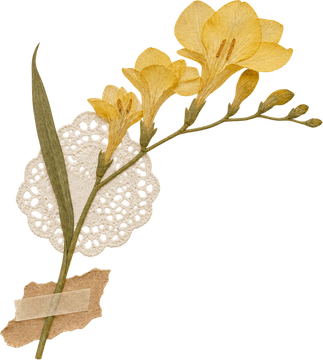
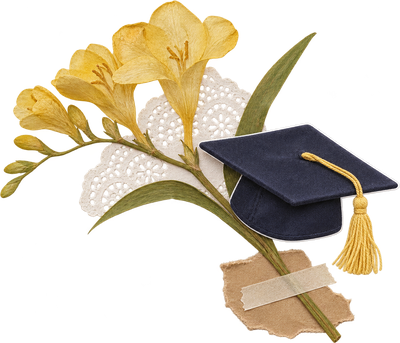
미리보기 제목 옆을 학사모+프리지아로, 공유 미리보기 이미지(og-image.jpg)·파비콘을 본판에도 적용
Claude-Session: https://claude.ai/code/session_01RUfDngG5q3TgRBj39mNToG

diff --git a/preview.html b/preview.html
@@ -12,14 +12,25 @@
 <meta property="og:url" content="https://best15993232-sudo.github.io/flower-planner/">
 <meta property="og:title" content="언제 졸업해? · 꽃 판매 플래너">
 <meta property="og:description" content="우리 가게 주변 졸업식 날짜를 한눈에. 전국 초·중·고·대학.">
-<meta property="og:image" content="https://best15993232-sudo.github.io/flower-planner/og-image.png">
+<meta property="og:image" content="https://best15993232-sudo.github.io/flower-planner/og-image.jpg">
 <meta property="og:image:width" content="1200"><meta property="og:image:height" content="630">
 <meta name="twitter:card" content="summary_large_image">
 <meta name="twitter:title" content="언제 졸업해? · 꽃 판매 플래너">
 <meta name="twitter:description" content="우리 가게 주변 졸업식 날짜를 한눈에. 전국 초·중·고·대학.">
-<meta name="twitter:image" content="https://best15993232-sudo.github.io/flower-planner/og-image.png">
+<meta name="twitter:image" content="https://best15993232-sudo.github.io/flower-planner/og-image.jpg">
 <link rel="preconnect" href="https://fonts.googleapis.com"><link rel="preconnect" href="https://fonts.gstatic.com" crossorigin>
 <link rel="stylesheet" href="https://fonts.googleapis.com/css2?family=Gaegu:wght@700&display=swap">
+<meta name="description" content="꽃집 사장님을 위한 졸업식 꽃 판매 플래너. 우리 가게 주변 초·중·고·대학 졸업식 날짜를 한눈에 보고 준비 수량까지 적어두세요.">
+<link rel="icon" type="image/png" sizes="32x32" href="favicon.png">
+<link rel="apple-touch-icon" sizes="180x180" href="apple-touch-icon.png">
+<meta property="og:type" content="website">
+<meta property="og:url" content="https://best15993232-sudo.github.io/flower-planner/">
+<meta property="og:title" content="언제 졸업해? · 꽃 판매 플래너">
+<meta property="og:description" content="우리 가게 주변 졸업식 날짜를 한눈에. 전국 초·중·고·대학.">
+<meta property="og:image" content="https://best15993232-sudo.github.io/flower-planner/og-image.jpg">
+<meta property="og:image:width" content="1200"><meta property="og:image:height" content="630">
+<meta name="twitter:card" content="summary_large_image">
+<meta name="twitter:image" content="https://best15993232-sudo.github.io/flower-planner/og-image.jpg">
 <title>[미리보기] 언제 졸업해? · 꽃 판매 플래너</title>
 <link rel="stylesheet" href="libs/leaflet/leaflet.css">
 <link rel="stylesheet" href="https://cdn.jsdelivr.net/gh/orioncactus/pretendard@v1.3.9/dist/web/static/pretendard.min.css">
@@ -468,7 +479,7 @@ body{background:var(--bg);color:var(--ink)}
 .hero-l{padding-top:6px}
 .bubble{position:relative;display:inline-block;background:var(--kraft);color:var(--kraft-ink);padding:8px 18px 10px;border-radius:14px 14px 14px 4px;transform:rotate(-2.5deg);box-shadow:0 1px 0 #00000014}
 .bubble::after{content:"";position:absolute;left:14px;bottom:-9px;border:9px solid transparent;border-top-color:var(--kraft);border-bottom:0;border-left:0}
-.bubble h1{margin:0;font-family:Gaegu,cursive;font-weight:700;font-size:30px;line-height:1.15;letter-spacing:0}
+.bubble h1{margin:0;font-family:Gaegu,cursive;font-weight:700;font-size:clamp(24px,7.6vw,30px);line-height:1.15;letter-spacing:0;white-space:nowrap}
 .tape{position:absolute;top:-9px;right:-14px;width:52px;height:18px;background:var(--tape);transform:rotate(18deg);box-shadow:0 1px 1px #0000000d}
 .hero-sub{margin:16px 0 0;font-size:15px;font-weight:700;color:var(--ink)}
 .hero-sub2{margin:2px 0 0;font-size:12.5px;color:var(--ink2)}
@@ -476,7 +487,7 @@ body{background:var(--bg);color:var(--ink)}
 .lace{width:100%;height:100%;border-radius:8px;background:radial-gradient(circle at 8px 8px,#fff 3px,transparent 3.5px) 0 0/16px 16px,var(--paper);border:1px dashed var(--line);display:flex;align-items:center;justify-content:center;overflow:hidden}
 .lace img{width:100%;height:100%;object-fit:contain;filter:drop-shadow(0 2px 3px #3a312822)}
 .lace:has(img){background:none;border:0;overflow:visible}
-.hero-r{width:128px;height:146px;margin-right:-6px}
+.hero-r{width:140px;height:130px;margin-right:-8px}
 /* 위치 줄 */
 .locbar{background:#fff;border:1px solid var(--line);border-radius:10px;min-height:52px;padding:10px 12px}
 .locbar b{font-size:15px}

diff --git a/index.html b/index.html
@@ -4,6 +4,17 @@
 <meta charset="utf-8">
 <meta name="viewport" content="width=device-width, initial-scale=1, viewport-fit=cover">
 <meta name="theme-color" content="#f6f5f0">
+<meta name="description" content="꽃집 사장님을 위한 졸업식 꽃 판매 플래너. 우리 가게 주변 초·중·고·대학 졸업식 날짜를 한눈에 보고 준비 수량까지 적어두세요.">
+<link rel="icon" type="image/png" sizes="32x32" href="favicon.png">
+<link rel="apple-touch-icon" sizes="180x180" href="apple-touch-icon.png">
+<meta property="og:type" content="website">
+<meta property="og:url" content="https://best15993232-sudo.github.io/flower-planner/">
+<meta property="og:title" content="언제 졸업해? · 꽃 판매 플래너">
+<meta property="og:description" content="우리 가게 주변 졸업식 날짜를 한눈에. 전국 초·중·고·대학.">
+<meta property="og:image" content="https://best15993232-sudo.github.io/flower-planner/og-image.jpg">
+<meta property="og:image:width" content="1200"><meta property="og:image:height" content="630">
+<meta name="twitter:card" content="summary_large_image">
+<meta name="twitter:image" content="https://best15993232-sudo.github.io/flower-planner/og-image.jpg">
 <title>언제 졸업해? · 우리 동네 졸업식 날짜</title>
 <link rel="stylesheet" href="libs/leaflet/leaflet.css">
 <link rel="stylesheet" href="https://cdn.jsdelivr.net/gh/orioncactus/pretendard@v1.3.9/dist/web/static/pretendard.min.css">

diff --git a/scripts/make_preview.py b/scripts/make_preview.py
@@ -13,12 +13,12 @@ R('<meta name="theme-color" content="#f6f5f0">','''<meta name="theme-color" cont
 <meta property="og:url" content="https://best15993232-sudo.github.io/flower-planner/">
 <meta property="og:title" content="언제 졸업해? · 꽃 판매 플래너">
 <meta property="og:description" content="우리 가게 주변 졸업식 날짜를 한눈에. 전국 초·중·고·대학.">
-<meta property="og:image" content="https://best15993232-sudo.github.io/flower-planner/og-image.png">
+<meta property="og:image" content="https://best15993232-sudo.github.io/flower-planner/og-image.jpg">
 <meta property="og:image:width" content="1200"><meta property="og:image:height" content="630">
 <meta name="twitter:card" content="summary_large_image">
 <meta name="twitter:title" content="언제 졸업해? · 꽃 판매 플래너">
 <meta name="twitter:description" content="우리 가게 주변 졸업식 날짜를 한눈에. 전국 초·중·고·대학.">
-<meta name="twitter:image" content="https://best15993232-sudo.github.io/flower-planner/og-image.png">
+<meta name="twitter:image" content="https://best15993232-sudo.github.io/flower-planner/og-image.jpg">
 <link rel="preconnect" href="https://fonts.googleapis.com"><link rel="preconnect" href="https://fonts.gstatic.com" crossorigin>
 <link rel="stylesheet" href="https://fonts.googleapis.com/css2?family=Gaegu:wght@700&display=swap">''')
 R('<title>언제 졸업해? · 우리 동네 졸업식 날짜</title>','<title>[미리보기] 언제 졸업해? · 꽃 판매 플래너</title>')
@@ -80,7 +80,7 @@ body{background:var(--bg);color:var(--ink)}
 .hero-l{padding-top:6px}
 .bubble{position:relative;display:inline-block;background:var(--kraft);color:var(--kraft-ink);padding:8px 18px 10px;border-radius:14px 14px 14px 4px;transform:rotate(-2.5deg);box-shadow:0 1px 0 #00000014}
 .bubble::after{content:"";position:absolute;left:14px;bottom:-9px;border:9px solid transparent;border-top-color:var(--kraft);border-bottom:0;border-left:0}
-.bubble h1{margin:0;font-family:Gaegu,cursive;font-weight:700;font-size:30px;line-height:1.15;letter-spacing:0}
+.bubble h1{margin:0;font-family:Gaegu,cursive;font-weight:700;font-size:clamp(24px,7.6vw,30px);line-height:1.15;letter-spacing:0;white-space:nowrap}
 .tape{position:absolute;top:-9px;right:-14px;width:52px;height:18px;background:var(--tape);transform:rotate(18deg);box-shadow:0 1px 1px #0000000d}
 .hero-sub{margin:16px 0 0;font-size:15px;font-weight:700;color:var(--ink)}
 .hero-sub2{margin:2px 0 0;font-size:12.5px;color:var(--ink2)}
@@ -88,7 +88,7 @@ body{background:var(--bg);color:var(--ink)}
 .lace{width:100%;height:100%;border-radius:8px;background:radial-gradient(circle at 8px 8px,#fff 3px,transparent 3.5px) 0 0/16px 16px,var(--paper);border:1px dashed var(--line);display:flex;align-items:center;justify-content:center;overflow:hidden}
 .lace img{width:100%;height:100%;object-fit:contain;filter:drop-shadow(0 2px 3px #3a312822)}
 .lace:has(img){background:none;border:0;overflow:visible}
-.hero-r{width:128px;height:146px;margin-right:-6px}
+.hero-r{width:140px;height:130px;margin-right:-8px}
 /* 위치 줄 */
 .locbar{background:#fff;border:1px solid var(--line);border-radius:10px;min-height:52px;padding:10px 12px}
 .locbar b{font-size:15px}
